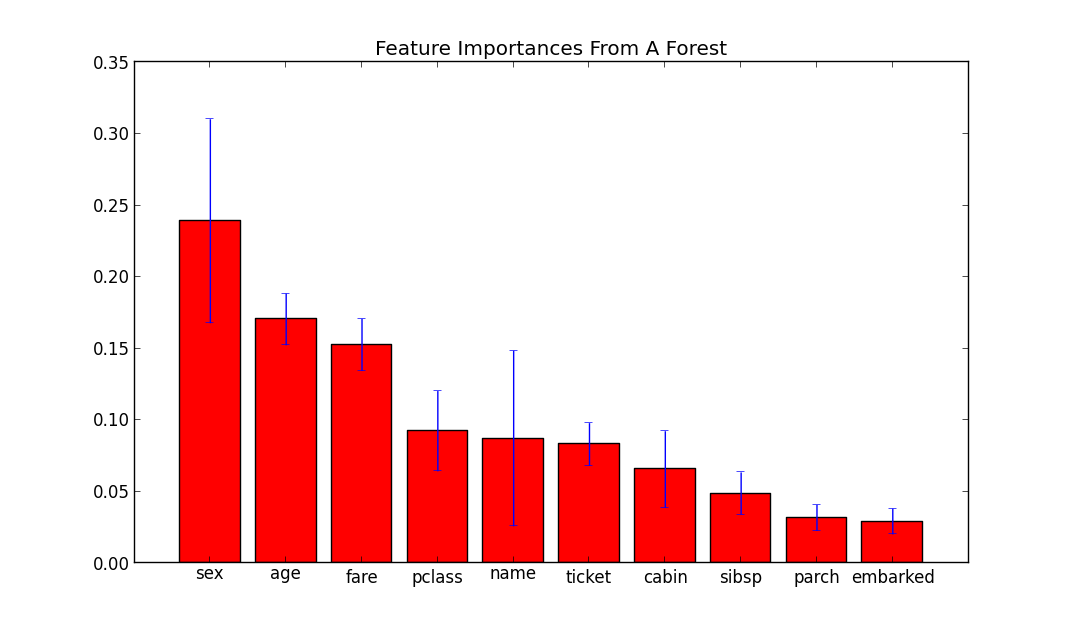
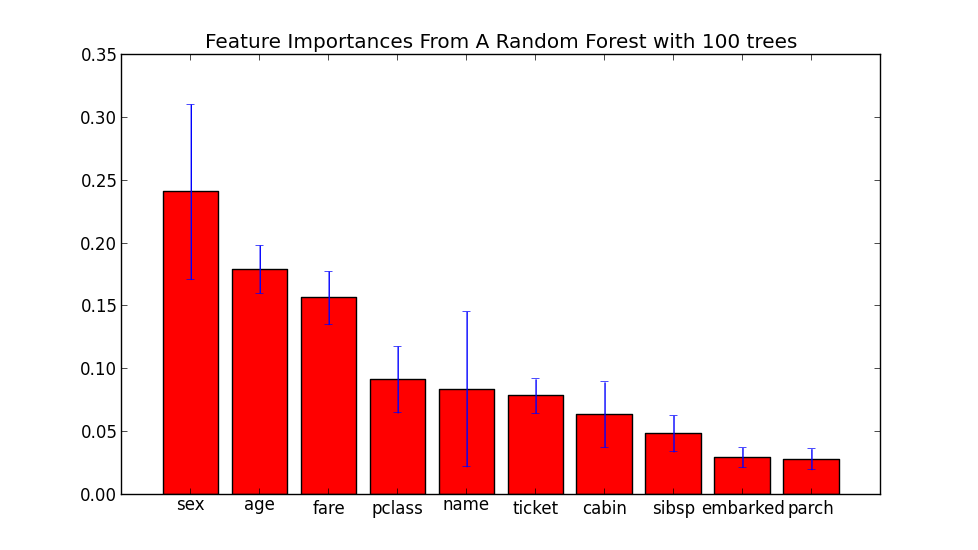
changed visualization code

Changed region(s): [[0.0613, 0.0618, 0.9202, 0.9582], [0.2147, 0.4636, 0.3067, 0.5255], [0.5828, 0.7418, 0.6442, 0.7727]]

diff --git a/titanic/main.py b/titanic/main.py
@@ -4,9 +4,10 @@ from warnings import filterwarnings
 from sklearn.pipeline import Pipeline
 from sklearn.ensemble.gradient_boosting import LeastSquaresError
 
-from utilities import Normalizer, MissingValueFiller, GradientBoost_JJ, cvScores
+from utilities import Normalizer, MissingValueFiller, cvScores
+from GradientBoost_JJ import GradientBoost_JJ
 from titanicutilities import readData
-from globalVariables import svc_f, svc_m, rf_f, rf_m,gb_f, gb_m, rootdir
+from globalVariables import svc_f, svc_m, rf_f, rf_m, gb, rootdir
 
 sys.path.append(rootdir)
 filterwarnings('ignore')
@@ -31,17 +32,17 @@ def checkClfPerformanceByCV():
     gbjjn_jobs = 10
     maxNumIt = 300
     clfs = [
-        GradientBoost_JJ(learners=[svc_f, svc_m, rf_f, rf_m,gb_f, gb_m], verbosity=verb, subsample=0.75, learningRate=0.5,
+        GradientBoost_JJ(learners=[svc_f, svc_m, rf_f, rf_m,gb], verbosity=verb, subsample=0.75, learningRate=0.5,
                          numIterations=maxNumIt, lossFunction=LeastSquaresError(1), stoppingError=0.1, numDeemedStuck=15, n_jobs=gbjjn_jobs),
-        GradientBoost_JJ(learners=[svc_f, svc_m, rf_f, rf_m,gb_f, gb_m], verbosity=verb, subsample=0.5, learningRate=0.5,
+        GradientBoost_JJ(learners=[svc_f, svc_m, rf_f, rf_m,gb], verbosity=verb, subsample=0.5, learningRate=0.5,
                          numIterations=maxNumIt, lossFunction=LeastSquaresError(1), stoppingError=0.1, numDeemedStuck=15, n_jobs=gbjjn_jobs),
-        GradientBoost_JJ(learners=[svc_f, svc_m, rf_f, rf_m,gb_f, gb_m], verbosity=verb, subsample=0.75, learningRate=0.05,
+        GradientBoost_JJ(learners=[svc_f, svc_m, rf_f, rf_m,gb], verbosity=verb, subsample=0.75, learningRate=0.05,
                          numIterations=maxNumIt, lossFunction=LeastSquaresError(1), stoppingError=0.1, numDeemedStuck=15, n_jobs=gbjjn_jobs),
-        GradientBoost_JJ(learners=[svc_f, svc_m, rf_f, rf_m,gb_f, gb_m], verbosity=verb, subsample=0.5, learningRate=0.05,
+        GradientBoost_JJ(learners=[svc_f, svc_m, rf_f, rf_m,gb], verbosity=verb, subsample=0.5, learningRate=0.05,
                          numIterations=maxNumIt, lossFunction=LeastSquaresError(1), stoppingError=0.1, numDeemedStuck=15, n_jobs=gbjjn_jobs),
-        GradientBoost_JJ(learners=[svc_f, svc_m, rf_f, rf_m,gb_f, gb_m], verbosity=verb, subsample=0.5, learningRate=0.01,
+        GradientBoost_JJ(learners=[svc_f, svc_m, rf_f, rf_m,gb], verbosity=verb, subsample=0.5, learningRate=0.01,
                          numIterations=maxNumIt, lossFunction=LeastSquaresError(1), stoppingError=0.1, numDeemedStuck=15, n_jobs=gbjjn_jobs),
-        GradientBoost_JJ(learners=[svc_f, svc_m, rf_f, rf_m,gb_f, gb_m], verbosity=verb, subsample=0.5, learningRate=0.01,
+        GradientBoost_JJ(learners=[svc_f, svc_m, rf_f, rf_m,gb], verbosity=verb, subsample=0.5, learningRate=0.01,
                          numIterations=maxNumIt, lossFunction=LeastSquaresError(1), stoppingError=0.07, numDeemedStuck=15, n_jobs=gbjjn_jobs)]
 
     clfs = clfs[2:]

diff --git a/titanic/visualization.py b/titanic/visualization.py
@@ -74,10 +74,10 @@ def drawTree(x, y, outputFname):
     graph = graph_from_dot_data(dot_data.getvalue())
     graph.write_pdf(outputFname)
 
-def plotFeatureImportances(x, y, fieldNames):
+def plotFeatureImportances(x, y, fieldNames, numTrees = 100):
     print fieldNames
     # fit
-    forest = ExtraTreesClassifier(n_estimators=100, compute_importances=True, random_state=0)
+    forest = ExtraTreesClassifier(n_estimators=numTrees, compute_importances=True, random_state=0)
     forest.fit(x, y)
 
     # get importances
@@ -94,27 +94,20 @@ def plotFeatureImportances(x, y, fieldNames):
 
     xtickLabels = [fieldNames[i] for i in indices]
     pylab.figure()
-    pylab.title('Feature Importances From A Forest')
+    pylab.title('Feature Importances From A Random Forest with %s trees' % numTrees)
     pylab.bar(xrange(numFeatures), importances[indices], color='r', yerr=std[indices], align='center')
     pylab.xticks(xrange(numFeatures), xtickLabels)
     pylab.xlim([-1, numFeatures])
     pylab.show()
 
 if __name__=="__main__":
-    # all data read are UNtransformed
-    all_x, all_y, x_train, y_train, x_test, y_test, testingData, fieldMaps, fieldNames, trainSampleWeights, testSampleWeights = readData()
 
-    transPipe = Pipeline([('filler', MissingValueFiller()), ('normer', Normalizer())])
-    all_x = transPipe.fit_transform(all_x)
+    # transPipe = Pipeline([('filler', MissingValueFiller()), ('normer', Normalizer())])
+    transPipe = Pipeline([('filler', MissingValueFiller())])
 
-    sexCol = fieldNames.index('sex')
-    classCol = fieldNames.index('pclass')
-
-    all_x_new = np.delete(all_x, [sexCol, classCol], 1)
-    newCol = (all_x[:,sexCol]*10 + all_x[:,classCol]).reshape(all_x.shape[0],-1)
-    all_x_new = np.hstack((all_x_new, newCol))
-    newfieldNames = [v for v in fieldNames if v not in ['sex','pclass']] + ['sexNclass']
-#    newfieldNames = [v for v in fieldNames if v not in ['sex']]
+    data = readData(rootdir)[0]
+    all_x = transPipe.fit_transform(data.X)
+    all_y = data.Y
 
 
-    plotFeatureImportances(all_x_new, all_y, newfieldNames)
+    plotFeatureImportances(all_x, all_y, data.fieldNames)
